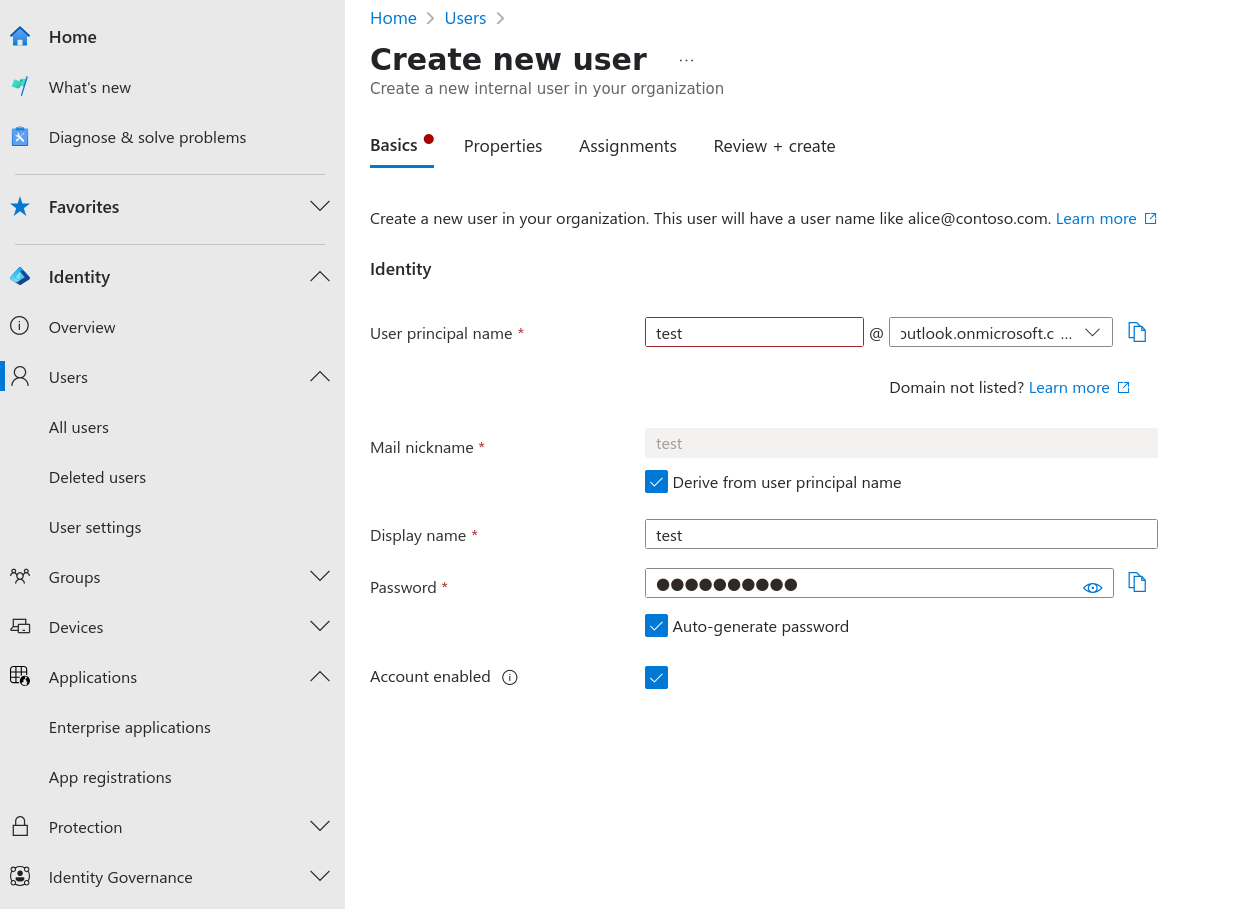
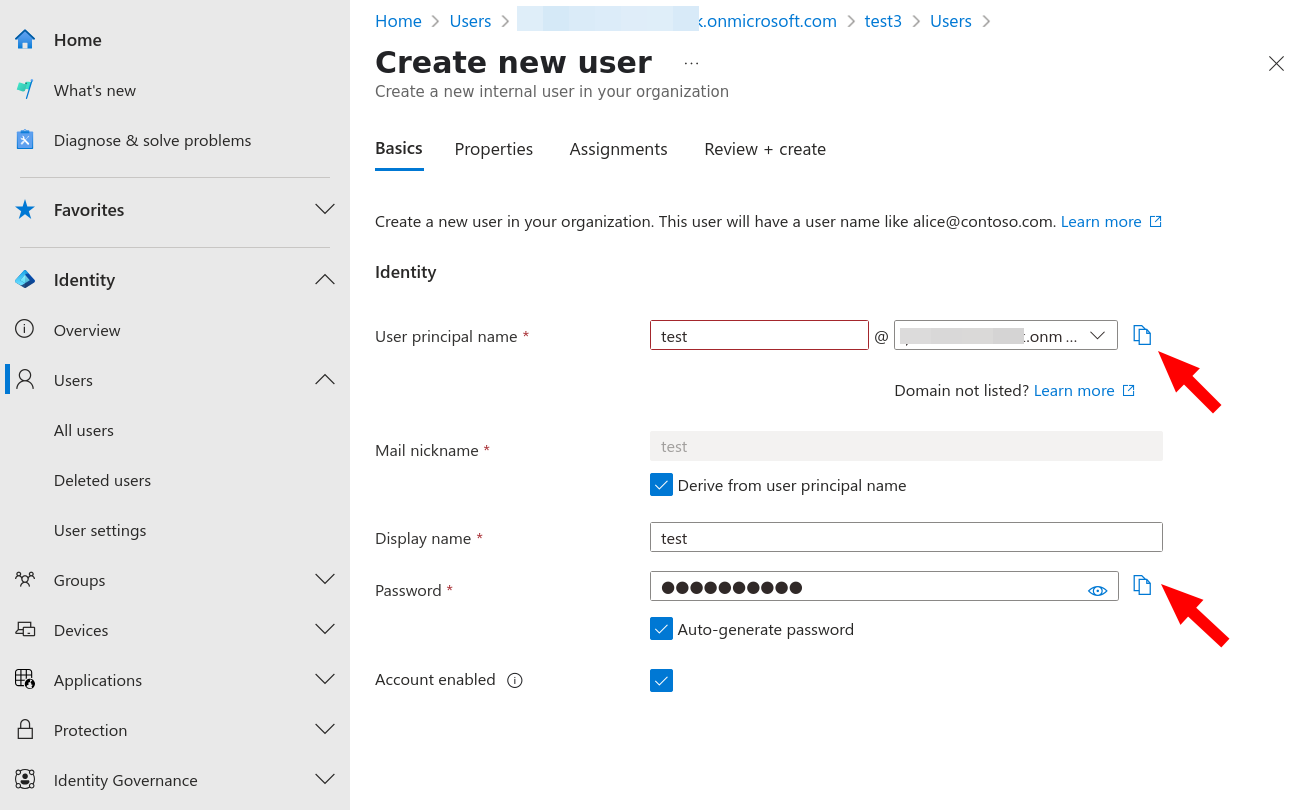
finalized entra, small tweak to tech overview

diff --git a/content/en/hosting/SSO/entra.md b/content/en/hosting/SSO/entra.md
@@ -16,8 +16,9 @@ These steps document how to configure Microsoft Entra as the Single Sign On (SSO
 ## Prerequisites
 
 * [Microsoft Entra](https://entra.microsoft.com) business account with credit card added. Free trial accounts work, but require a credit card.
-* CHT server - ensure you are running version `4.20.0` or later
+* CHT server - ensure you are running version `4.20.0` or later. This can be an instance of [Docker Helper](/hosting/4.x/app-developer/#cht-docker-helper-for-4x).
 * DNS Entries and TLS enabled on CHT
+
 
 ## Entra Setup
 
@@ -31,17 +32,14 @@ Login to [Entra](https://entra.microsoft.com)
 - Navigate to "Applications" > "App registrations" > "New registration"
 - Add a "user-facing display name"  of `CHT`
 - Under "Redirect URI (optional)" select `Seb`
-- Enter `https://<CHT_URL>/medic/login/oidc/get_token` as the redirect URI, being sure to replace `CHT_URL` with your production CHT URL
+- Enter `https://<CHT_URL>/medic/login/oidc` as the redirect URI, being sure to replace `CHT_URL` with your production CHT URL
 
 ![new-registration.png](entra/new-registration.png)
 ![new-registration2.png](entra/new-registration2.png)
 
 ### Copy Secret
 
-Navigate to "Certificates & secrets" > "Client secrets" > "New client secret"
-    - Add a new secret and copy the `Value` string
-- On the client app's "Overview" page, note the value displayed for "Application (client) ID". This is the `client_id` value.
-
+Navigate to "Certificates & secrets" > "Client secrets" > "New client secret". Add a new secret and copy the `Value` string
 
 ![new-secret.png](entra/new-secret.png)
 ![copy-secret.png](entra/copy-secret.png)
@@ -49,10 +47,9 @@ Navigate to "Certificates & secrets" > "Client secrets" > "New client secret"
 
 ### Copy Discovery URL
 
-From the "Overview" page, open the "Endpoints" modal and make a note of the "OpenID Connect metadata document" link value. This is the `discovery_url`.
+From the "Overview" page copy the "Application (client) ID" and the "Directory (tenant) ID"  which are needed for the `client_id` and `discovery_url` respectively in step 1 below.
 
-![endpoints.png](entra/endpoints.png)
-![endpoint-url.png](entra/endpoint-url.png)
+![client-overview.png](entra/client-overview.png)
 
 {{% /steps %}}
 
@@ -65,12 +62,12 @@ From the "Overview" page, open the "Endpoints" modal and make a note of the "Ope
 
 In the config directory for your app, update your `app_settings.json` file to contain this additional JSON at the end, before the very last `}`
 
-Be sure to replace `ENTRA_URL` with the Directory (tenant) ID of your Entra client from step 4 above and `CHT_URL` with the production URL of your CHT instance. If you're using a development instance, be sure the `CHT_URL` includes your port.
+Be sure to replace `APP_ID` with the Application (client) ID and `DIRECTORY_ID` with Directory (tenant) ID both from step 4 above. Replace the `CHT_URL` with the production URL of your CHT instance. If you're using a development instance, be sure the `CHT_URL` includes your port.
 
 ```json
     "oidc_provider": {
-      "client_id": "CHT",
-      "discovery_url": "https://login.microsoftonline.com/<ENTRA_ID>/v2.0/.well-known/openid-configuration"
+      "client_id": "<APP_ID>",
+      "discovery_url": "https://login.microsoftonline.com/<DIRECTORY_ID>/v2.0/.well-known/openid-configuration"
     },
     "app_url": "https://<CHT_URL>/"
 ```
@@ -103,7 +100,7 @@ Use the [`/api/v1/credentials` REST api](https://docs.communityhealthtoolkit.org
 
 {{< tabs items="Production,Development" >}}
 {{< tab >}}
-Be sure to replace `SECRET` with the value from [step 5 above](#copy-secret). As well, replace `CHT_URL` with the production URL of your CHT instance, `USER` with your admin user and `PASSWORD` with your password:
+Be sure to replace `SECRET` with the value from [step 3 above](#copy-secret). As well, replace `CHT_URL` with the production URL of your CHT instance, `USER` with your admin user and `PASSWORD` with your password:
 ```shell
 curl -X PUT https://<USER>:<PASSWORD>@<CHT_URL>/api/v1/credentials/oidc:client-secret \
      -H "Content-Type: text/plain" \
@@ -112,7 +109,7 @@ curl -X PUT https://<USER>:<PASSWORD>@<CHT_URL>/api/v1/credentials/oidc:client-s
 
 {{< /tab >}}
 {{< tab >}}
-Be sure to replace `SECRET` with the value from [step 5 above](#copy-secret). As well, replace `CHT_URL` with the docker helper URL, including port:
+Be sure to replace `SECRET` with the value from [step 3 above](#copy-secret). As well, replace `CHT_URL` with the docker helper URL, including port:
 ```shell
 curl -X PUT https://medic:password@<CHT_URL>/api/v1/credentials/oidc:client-secret \
      -H "Content-Type: text/plain" \
@@ -134,34 +131,36 @@ Further, going to the CHT login screen should now show an extra login button "Lo
 
 {{% steps %}}
 
-### Add Entra user
+### Add Entra user: Screen 1
 
 - Navigate to "Users" > "All users" > "New user" > "Create new user"
 - Enter details for your test user. Specifically note the "Mail nickname" value as this will need to match the `email` value for your CHT user.
-- Specify "User proncipal name" of `test` which will translate to `test@<DOMAIN>.com` where `DOMAIN` is the domain you have configured for Entra.
-- Be sure to copy the generated password
-  ![create-new-user.png](entra/create-new-user.png)
-  ![create-new-user2.png](entra/create-new-user2.png)
+- Specify "User principal name" of `test` which will translate to `test@<DOMAIN>.com` where `DOMAIN` is the domain you have configured for Entra.
+- Be sure to copy the principal name and the generated password
 
+![create-new-user.png](entra/create-new-user.png)
+![create-new-user2.png](entra/create-new-user2.png)
 
-### Set Entra users's password
+### Add Entra user: Screen 2
 
-Go to the user's tk
+On the 2nd "Properties" screen, you must paste the exact "User principal name" into "Contact Information" -> "Email" from the prior screen. This is what will get passed to the CHT:
+
+![create-new-user3.png](entra/create-new-user3.png)
 
 ###  Add CHT user
 
 From the "App Management" console in the CHT, go to "Users" > "Add user"
 - User name: `test`
-- SSO Email Address: `test@test.com` (must match email [from step #1](#add-keycloak-user))
+- SSO Email Address: `test@test.com` (must match email from prior step)
 - **Note** - the `E-mail address` field is not used for SSO.
 
-![cht.new.user.png](keycloak/cht.new.user.png)
+![cht.new.user.png](entra/cht-new-user.png)
 
 ###  Test login
 
 Logout as the Admin user and then on the CHT login screen, select "Login with SSO"
-- Your browser will be redirected to the Keycloak login screen
-- Enter the username/password for your Keycloak user
+- Your browser will be redirected to the Entra login screen
+- Enter the username/password for your Entra user
 - You will be redirected back to the CHT app and logged in as your CHT user
 
 

diff --git a/content/en/hosting/SSO/technical.md b/content/en/hosting/SSO/technical.md
@@ -30,6 +30,9 @@ A user may be removed from using SSO by deleting the email address from "SSO Ema
 
 ## Sequence diagram
 
+When doing development and testing: Note that the CHT instance can be a private CHT instance,  (eg a [Docker Helper](/hosting/4.x/app-developer/#cht-docker-helper-for-4x) instance) that is not public accessible. This is because, for example,  step 9 is initiated from the CHT, thus it can be onle on the LAN and reach out to a public OIDC Provider like Entra.  As well, the OIDC provider (eg the case of a dev instance of Keycloak) can be only on the LAN.  
+
+Otherwise, for production, both the CHT and the OIDC Provider should should have public URLs with TLS enabled.
 
 ```mermaid
 sequenceDiagram
